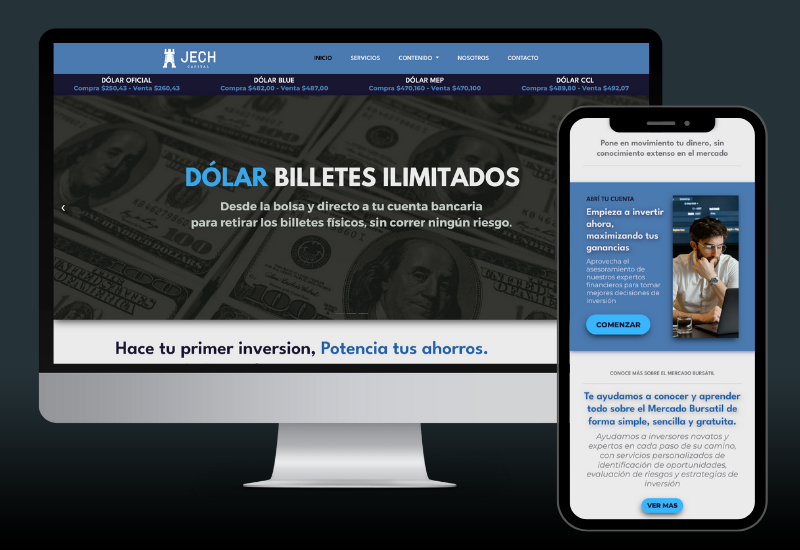
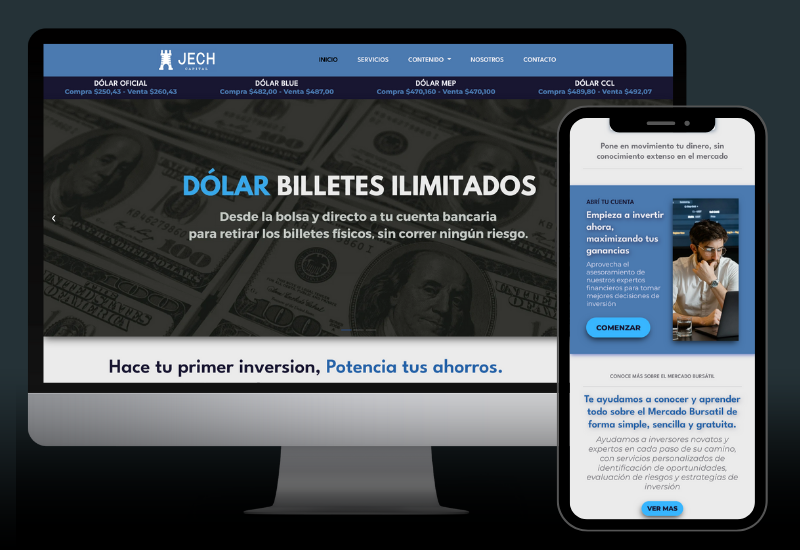
actualizando port

Changed region(s): [[0.0312, 0.0309, 0.9375, 0.9582], [0.4062, 0.2164, 0.4375, 0.2473]]

diff --git a/css/animation.css b/css/animation.css
@@ -4,6 +4,7 @@
     width: 100%;
     margin-bottom: 2rem;
 }
+
 .name {
     font-family: 'Schoolbell', cursive;
     font-size: 9rem;
@@ -19,6 +20,7 @@
     color: transparent;
     -webkit-text-stroke: 0.1px var(--paragraph);
 }
+
 .content h1:nth-child(2) {
     color: var(--text02);
     -webkit-text-stroke: 2px var(--botton-nav);
@@ -39,6 +41,7 @@
         clip-path: polygon(61% 75%, 75% 76%, 89% 71%, 100% 66%, 100% 100%, 0 100%, 0 55%, 15% 59%, 31% 63%, 46% 69%);
     }
 }
+
 .wrapper {
     height: 300px;
     width: 300px;
@@ -65,6 +68,7 @@
     position: relative;
     animation: spin 30s linear infinite;
 }
+
 .cubo-image-dos {
     width: 80%;
     height: 80%;
@@ -72,6 +76,7 @@
     position: relative;
     animation: spin 30s linear infinite;
 }
+
 .cubo-image-dos div {
     background-color: rgb(0, 0, 0);
     height: 300px;
@@ -102,6 +107,7 @@
     transform: rotateY(270deg) translateX(-150px);
     transform-origin: 0 50%;
 }
+
 @keyframes spin {
     100% {
         transform: rotateY(360deg);
@@ -115,39 +121,49 @@
 .swal-button {
     border-color: var(--botton-nav-active);
     background-color: var(--botton-nav);
-    box-shadow: 2px 2px 5px var(--text02);    
+    box-shadow: 2px 2px 5px var(--text02);
     font-family: 'Schoolbell', cursive;
     font-size: 1rem;
     border-radius: 0.6rem;
     padding: 0.2rem 0.5rem;
-  } 
+}
 
-  .swal-overlay {
+.swal-overlay {
     background-color: rgba(255, 255, 255, 0.5);
-  }
-  .swal-title{
-    font-family: 'Schoolbell', cursive;
-    color: var(--paragraph);
+}
 
-  }
-  .swal-text {    
+.swal-title {
     font-family: 'Schoolbell', cursive;
     color: var(--paragraph);
-  }
-  .swal-modal {
+}
+
+.swal-text {
+    font-family: 'Schoolbell', cursive;
+    color: var(--paragraph);
+}
+
+.swal-modal {
     background-color: rgba(26, 24, 24, 0.9);
-    border: 3px solid rgb(2, 2, 2);    
-  }
+    border: 3px solid rgb(2, 2, 2);
+}
 
-  .swal-icon{
+.swal-icon {
     border-color: var(--paragraph);
     background: white;
-       
-  }
+}
 
-  .swal-icon--success__hide-corners {           
-    background: none !important;}
-    .swal-icon--success:before,
-    .swal-icon--success:after {
-    background: none !important;    
+.swal-icon--success__hide-corners {
+    background: none !important;
+}
+
+.swal-icon--success:before,
+.swal-icon--success:after {
+    background: none !important;
+}
+
+@media (max-width: 800px) {
+    .content h1:nth-child(1) {
+        color: rgb(168, 159, 159);
+        -webkit-text-stroke: 0.1px var(--paragraph);
     }
+}

diff --git a/js/app.js b/js/app.js
@@ -49,7 +49,7 @@ window.addEventListener("load", function () {
       </div>
       <div class="description-projects">
         <ul>
-          ${project.technologies.map(tech => `<li>${tech}</li>`).join('')}
+          ${project.technologies.map(tech => `<li class="techLyst">${tech}</li>`).join('')}
         </ul>
         <p class="parr-projects lang" key="${project.descriptionKey}">${project.description}</p>
       </div>
@@ -65,7 +65,7 @@ window.addEventListener("load", function () {
       title: '',
       diamondLink: 'http://www.jechcapital.com',
       githubLink: 'https://github.com/leandroMz?tab=repositories',
-      technologies: ['HTML', 'CSS', 'JS', 'API', 'Form', 'librarys', 'Netlify'],
+      technologies: ['Html/Css/Js', 'API', 'Form', 'librarys'],
       descriptionKey: 'text10',
       description: ''
     },
@@ -76,7 +76,7 @@ window.addEventListener("load", function () {
       title: '',
       diamondLink: 'http://www.ecomerce-coder.netlify.app',
       githubLink: 'https://github.com/leandroMz/PreEntrega1Martinez',
-      technologies: ['REACT', 'JS', 'Firebase dataBase', 'Firebase Auth', 'CSS', 'Netlify'],
+      technologies: ['REACT', 'Firebase', 'Auth', 'Html/Css/Js'],
       descriptionKey: 'text12',
       description: ''
     },
@@ -87,7 +87,7 @@ window.addEventListener("load", function () {
       title: '',
       diamondLink: 'https://clinicadental-dh.netlify.app/',
       githubLink: 'https://github.com/leandroMz/ClinicaDental_MartinezLeandro',
-      technologies: ['JAVA', 'Spring', 'SQL', 'H2 Database', 'Security', 'Html/Css/Js'],
+      technologies: ['JAVA', 'Spring', 'SQL', 'Login', 'Html/Css/Js'],
       descriptionKey: 'text14',
       description: ''
     },
@@ -98,7 +98,7 @@ window.addEventListener("load", function () {
       title: '',
       diamondLink: 'https://hthydsawqerew.netlify.app',
       githubLink: 'https://github.com/leandroMz/Fogop-Web23',
-      technologies: ['HTML', 'CSS', 'JS', 'API', 'JSON', 'librarys', 'Netlify'],
+      technologies: ['Html/Css/Js', 'API', 'librarys', 'Netlify'],
       descriptionKey: 'text16',
       description: ''
     },

diff --git a/css/mobile.css b/css/mobile.css
@@ -1,7 +1,9 @@
 @media (max-width: 800px) {
 
+
+
     header {
-        align-items: center;
+        display: none;
     }
 
     .start-image {
@@ -9,50 +11,15 @@
     }
 
     .logotype {
-        padding: 2rem 0rem;
-        width: 12rem;
+        display: none;
     }
 
     .logo {
-        width: 100%;
-    }
-
-    .mn-dsktop {
-        display: none;
-        position: fixed;
-        top: 0;
-        right: 0;
-        bottom: 0;
         width: 50%;
-        background-color: var(--background);
-        box-shadow: 0 0 10px rgba(0, 0, 0, 0.2);
-        transition: all 2s ease-in-out;
-        transform: translateX(100%);
-        z-index: 999;
     }
 
-    .desktop-menu {
-        display: flex;
-        flex-direction: column;
-        align-items: center;
-        height: 100%;
-        padding: 20px;
-    }
 
-    .close-nav {
-        position: absolute;
-        top: 20px;
-        left: 20px;
-        font-size: 30px;
-        cursor: pointer;
-    }
 
-    .hambur {
-        display: block;
-        color: var(--paragraph);
-        margin-bottom: 1.3rem;
-
-    }
 
     /* FRASE INICIO */
     .message {
@@ -122,8 +89,11 @@
         text-align: center;
     }
 
+    .img-project img{
+        position: relative;
+        top: 2rem;
+        width: 99%;
+        height: 80%;
+    }
 
-    
-   
-   
 }

diff --git a/index.html b/index.html
@@ -31,11 +31,7 @@
                             alt="English"></button>
                 </li>
             </ul>
-            <button class="close-nav">X</button>
         </nav>
-        <div class="hambur">
-            <i class="fa-solid fa-bars fa-2x"></i>
-        </div>
 
     </header>
 

diff --git a/css/style.css b/css/style.css
@@ -150,6 +150,9 @@ ul {
     padding: 1rem 0rem;
     display: flex;
 }
+.techLyst{
+    background-color: #0e0d0d;
+}
 
 .titles-nav {
     font-family: 'Cabin Sketch', cursive;
